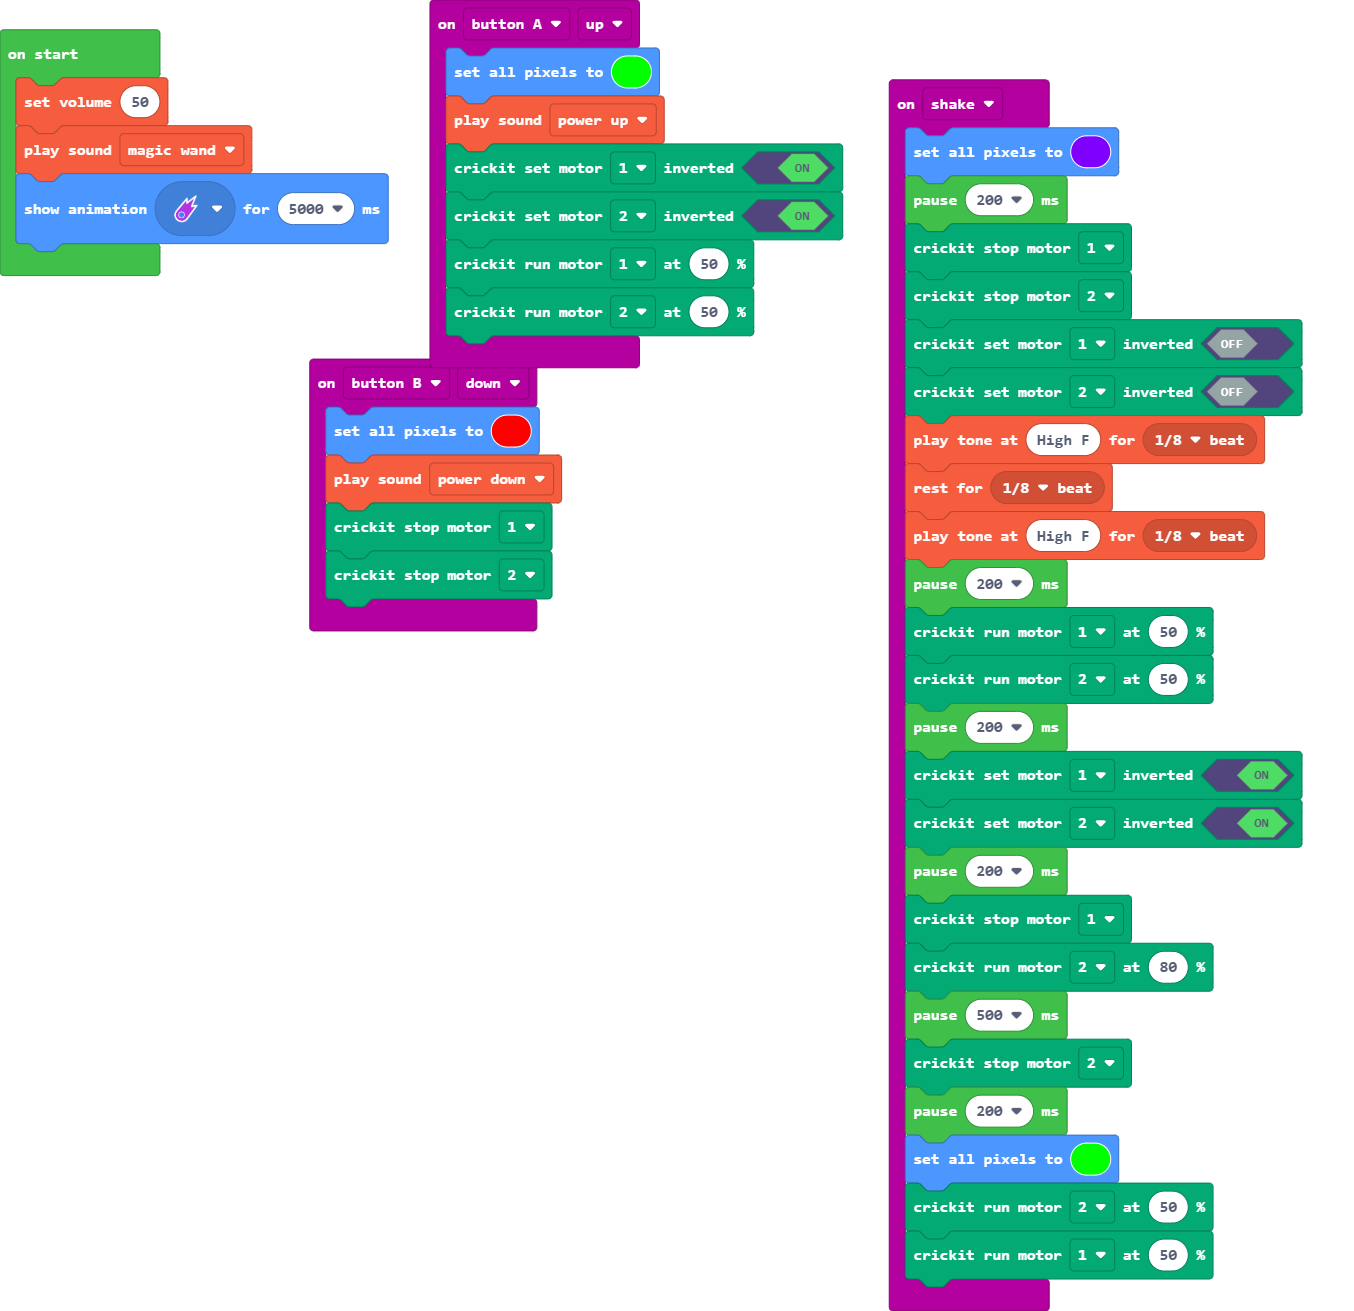
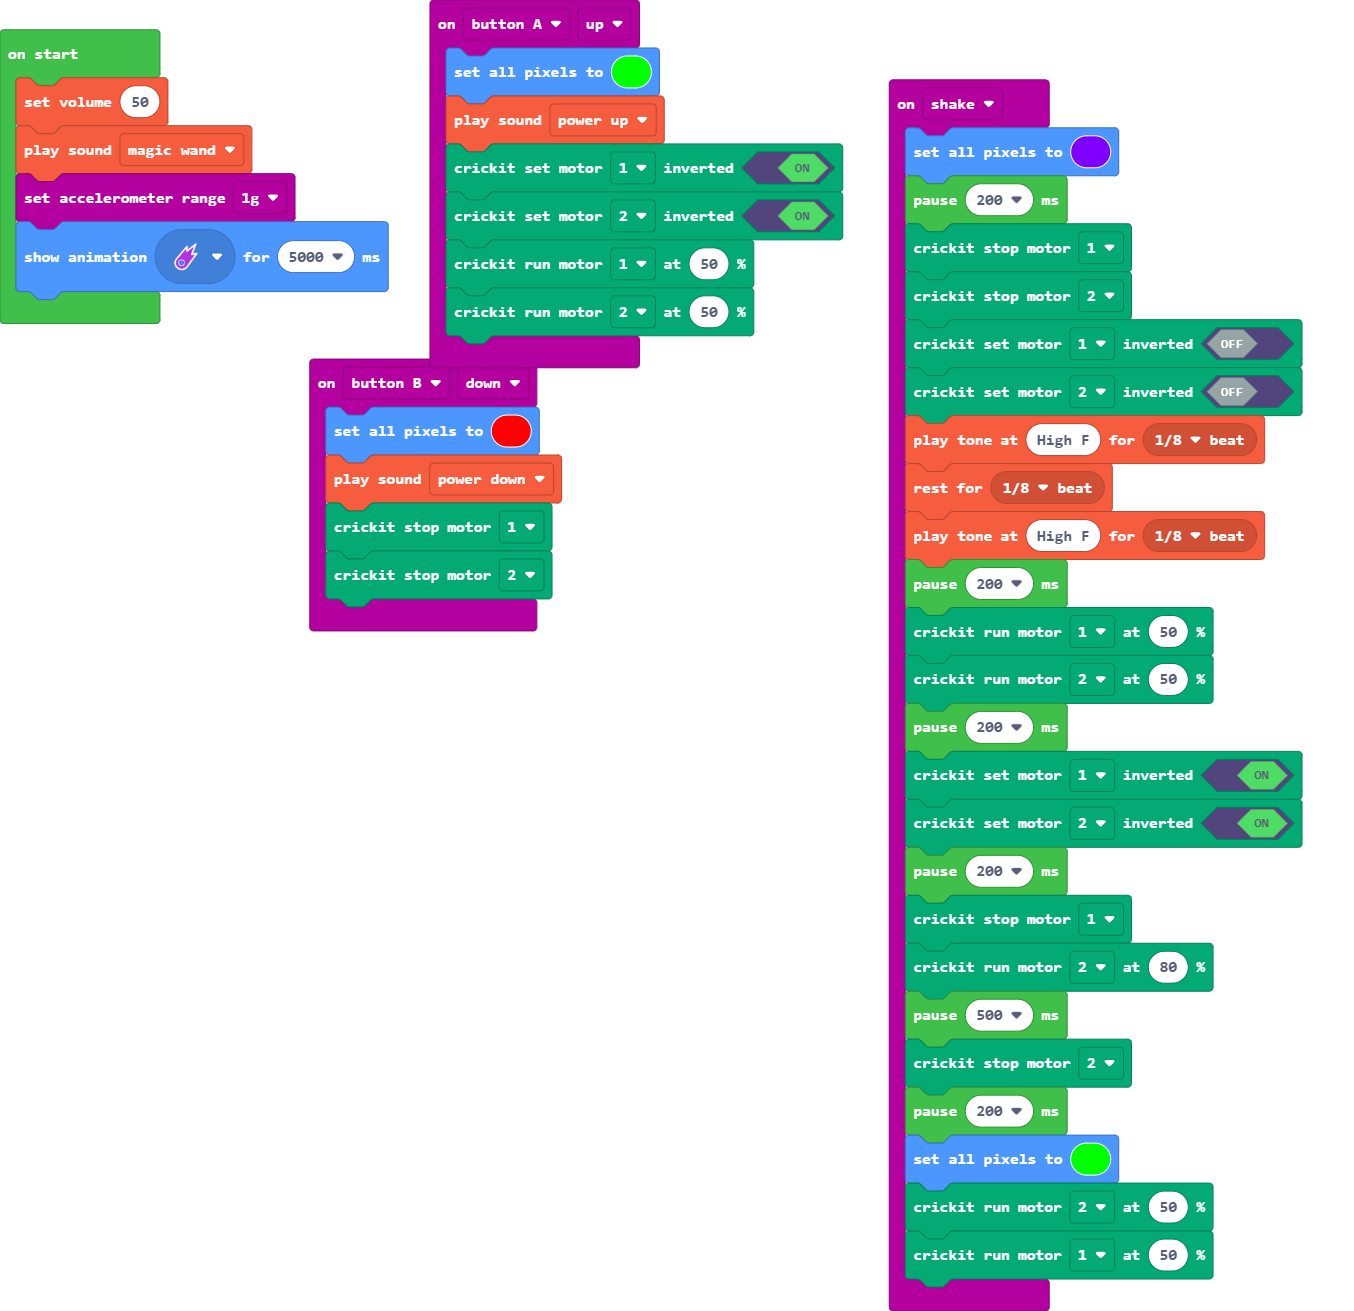
Update main.blocks, main.ts

Changed region(s): [[0.0, 0.122, 0.3102, 0.2441]]

diff --git a/main.ts b/main.ts
@@ -40,4 +40,5 @@ input.onGesture(Gesture.Shake, function () {
 })
 music.setVolume(50)
 music.magicWand.play()
+input.setAccelerometerRange(AcceleratorRange.OneG)
 light.showAnimation(light.cometAnimation, 5000)
